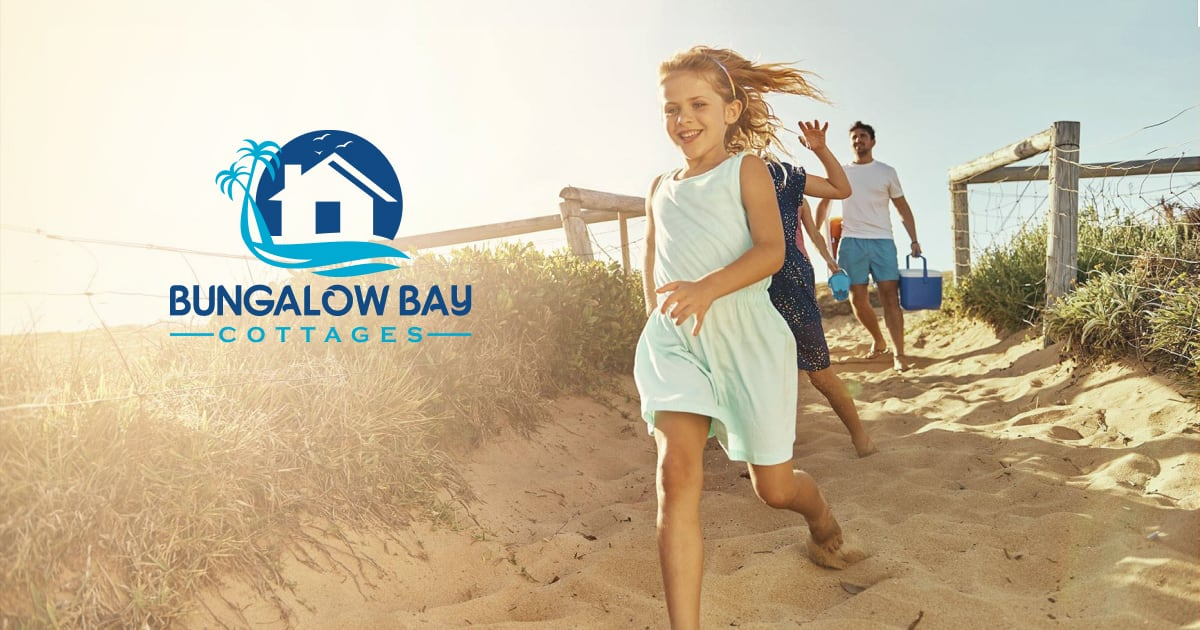
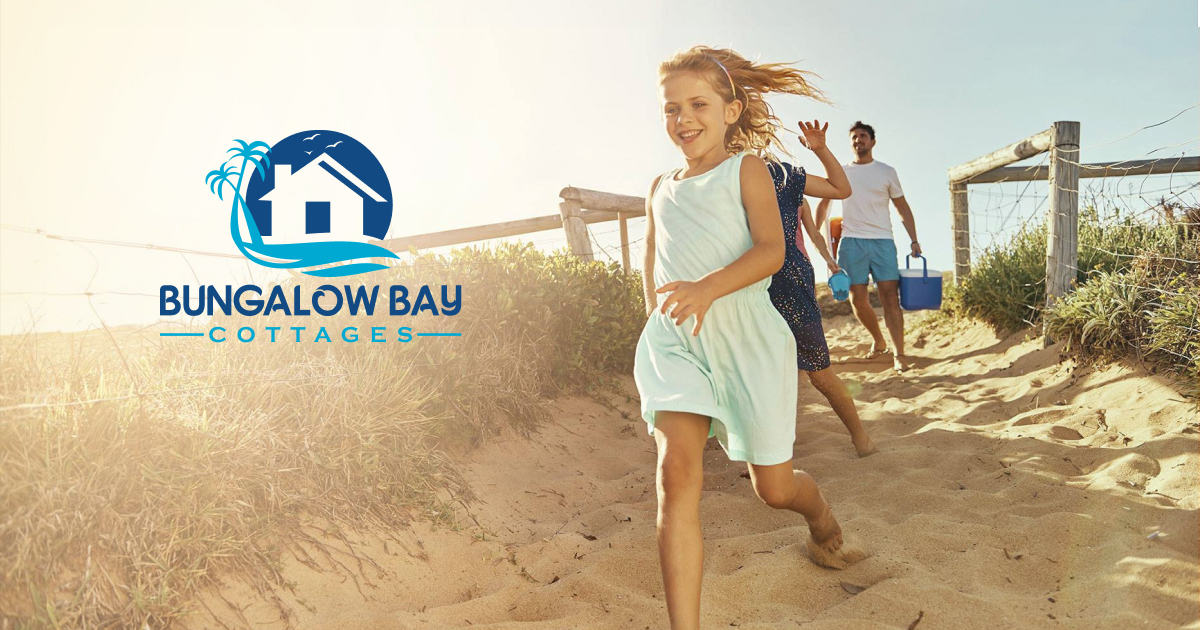
tweaks

Changed region(s): [[0.1233, 0.2111, 0.4008, 0.5429]]

diff --git a/css/layout/_pages.scss b/css/layout/_pages.scss
@@ -9,16 +9,17 @@
 }
 
 .site-brand {
-	width: 50%;
+//	width: 50%;
 	display: inline-block;
-	max-width: rem(350px);
+//	max-width: rem(350px);
+width: min(50%, rem(350px));
 }
 
 .hero {
 	width: 100%;
 	position: relative;
-	height: 100vh;
-	max-height: 62.5vw;
+	min-height: 50vh;
+	height: 51vw;
 	display: flex;
 	flex-direction: column;
 	justify-content: center;
@@ -42,8 +43,8 @@
 .hero-title-lead {
 	@extend .font-cursive;
 	@extend .text-accent;
-	font-size: var(--s6);
-	font-size: clamp(var(--s3), 8vw, var(--s6));
+	font-size: var(--s5);
+	font-size: clamp(var(--s4),6.5vw,var(--s6));
 	display: block;
 }
 
@@ -188,6 +189,7 @@
 	color: var(--color-lite);
 	padding-top: var(--flow-lg);
 	padding-bottom: var(--flow-lg);
+	z-index: 10;
 }
 
 .site-footer {

diff --git a/css/common/_global.scss b/css/common/_global.scss
@@ -2,8 +2,8 @@ html {
 	//	font-size: calc(.1vw + .1vh + 1em);
 	//	font-size: calc(.125vw + .125vh + 1.125em);
 	//	font-size: calc(.2vw + .2vh + 1em);
-		 @media(min-width: $bp-xxl) {
-			font-size: calc(.1vw + .1vh + 1em);
+		 @media(min-width: 1600px) {
+			font-size: calc(0.1vw + 0.1vh + 1em);
 		 }
 	// 	font-size: calc(.1vw + .1vh + 1em);
 	// }
@@ -16,6 +16,7 @@ body {
 	line-height: var(--line-height);
 	display: flex;
 	flex-direction: column;
+	
 	//	@extend .flow-child-y;
 }
 
